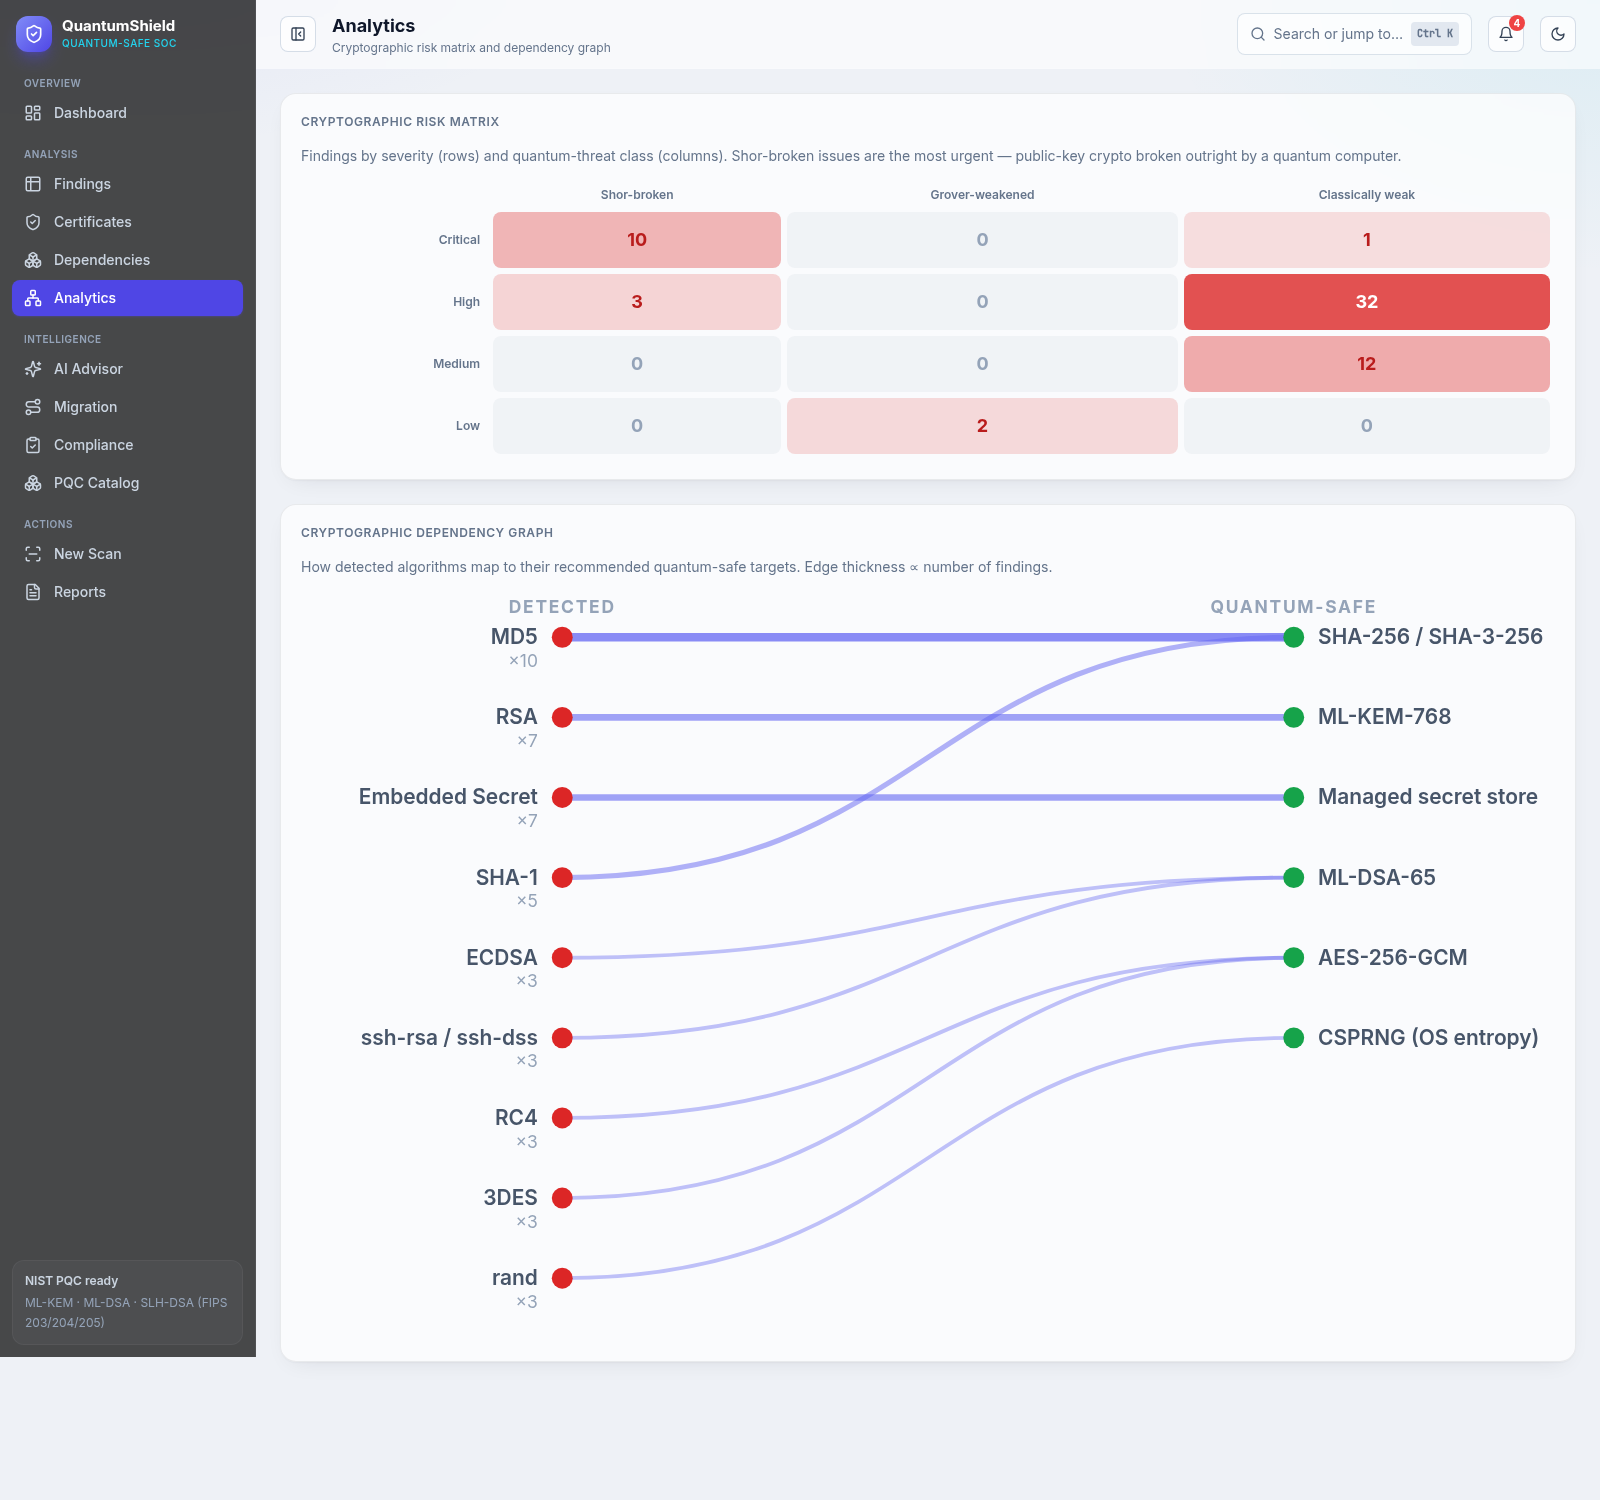
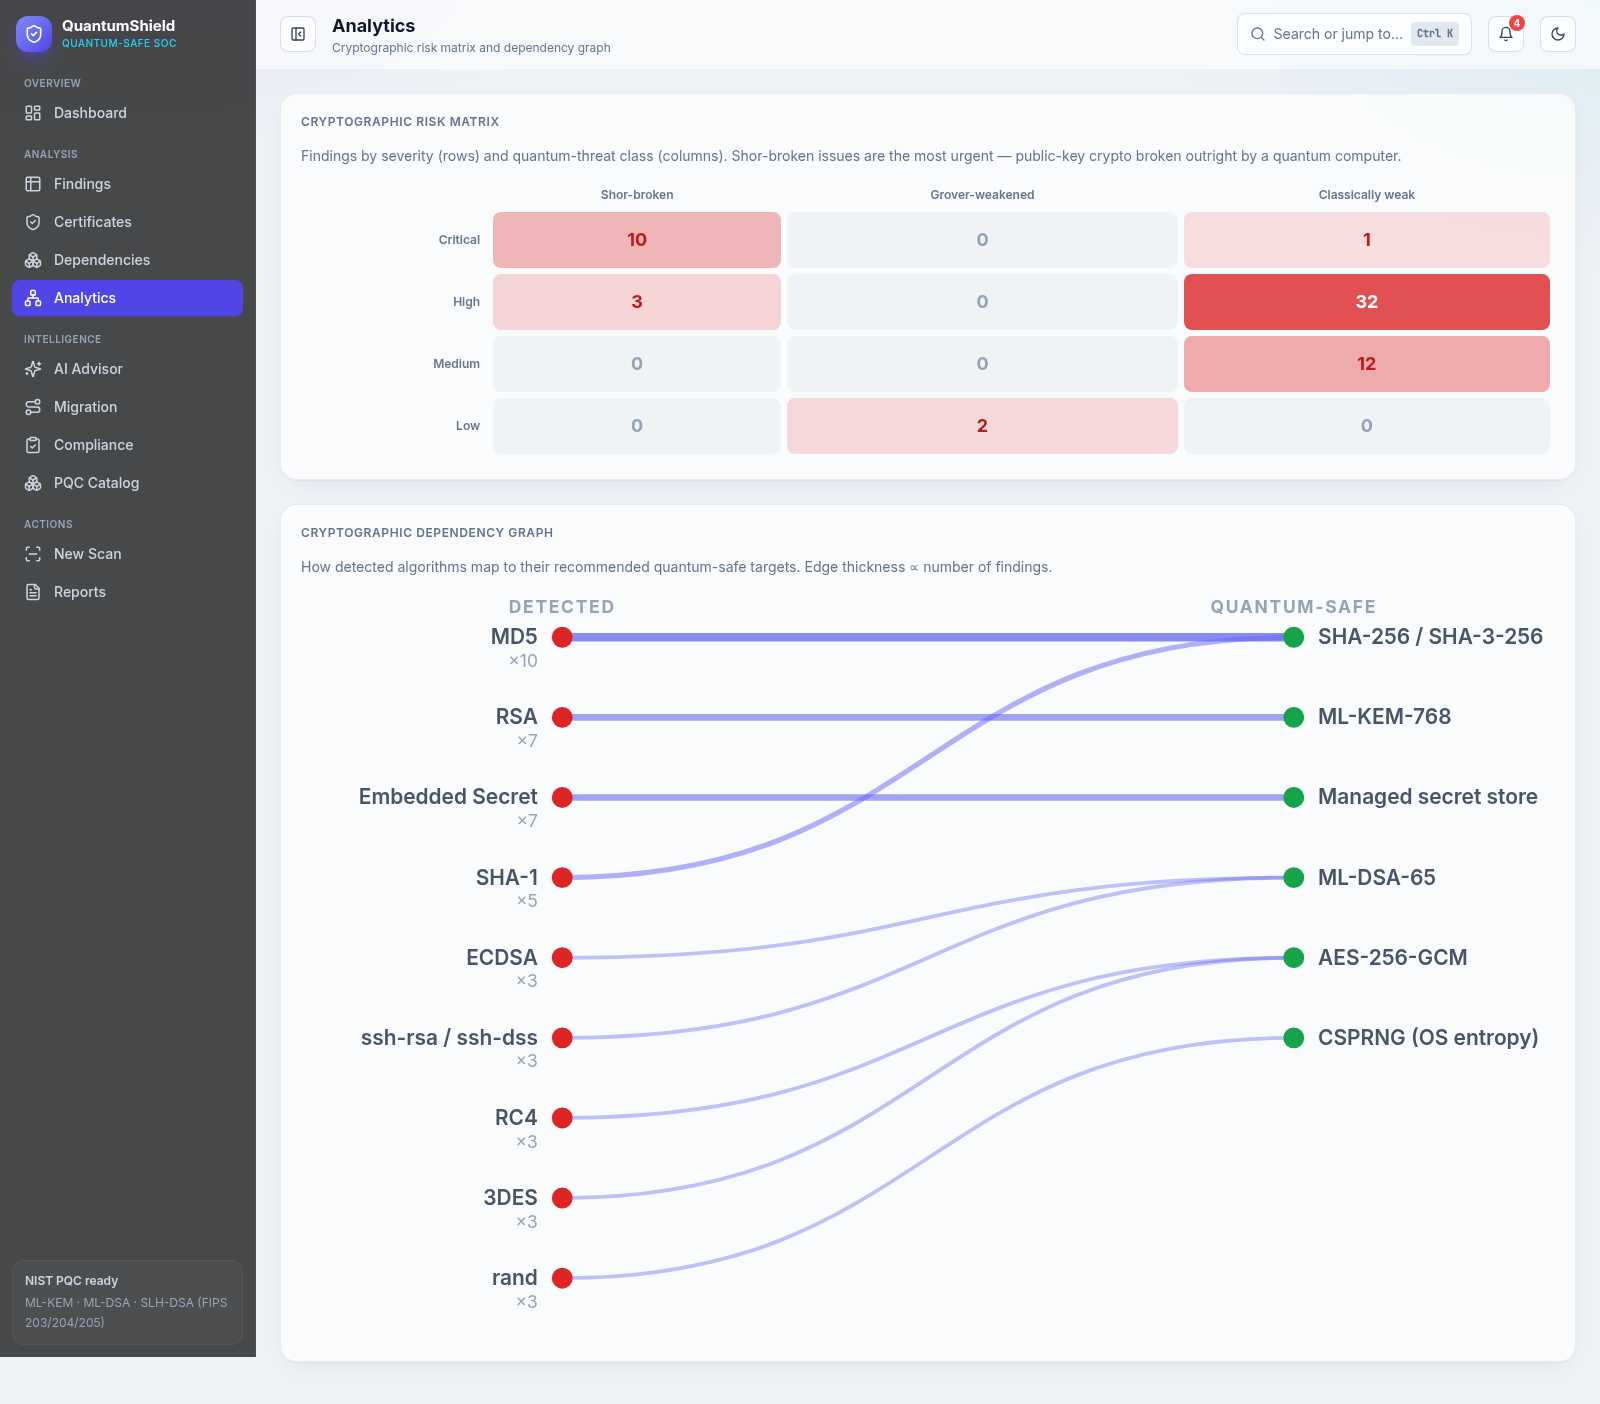
docs: fix README rendering on GitHub
Two problems visible only once the markdown is rendered the way GitHub
renders it:

- The eight badges each sat on their own line. GFM turns a single
  newline into a line break, so GitHub stacked them vertically as eight
  rows instead of one. Join them onto one line.
- findings.png and analytics.png carried 257px and 96px of empty page
  below their content, from capturing at a fixed 1500px height. Crop to
  the last non-background row.

Verified by rendering README.md through GitHub's own /markdown API and
screenshotting the result at GitHub's 1012px content width.

diff --git a/README.md b/README.md
@@ -2,14 +2,7 @@
 
 ### Enterprise Platform for Quantum-Safe Cryptography Assessment and Migration
 
-![Python](https://img.shields.io/badge/Python-3.14-3776AB?logo=python&logoColor=white)
-![FastAPI](https://img.shields.io/badge/FastAPI-0.141-009688?logo=fastapi&logoColor=white)
-![React](https://img.shields.io/badge/React-18.3-61DAFB?logo=react&logoColor=black)
-![TypeScript](https://img.shields.io/badge/TypeScript-5.9-3178C6?logo=typescript&logoColor=white)
-![Vite](https://img.shields.io/badge/Vite-8.2-646CFF?logo=vite&logoColor=white)
-![Tests](https://img.shields.io/badge/tests-33%20passing-brightgreen)
-![NIST PQC](https://img.shields.io/badge/NIST-FIPS%20203%2F204%2F205-FF6F00)
-![License](https://img.shields.io/badge/License-MIT-yellow)
+![Python](https://img.shields.io/badge/Python-3.14-3776AB?logo=python&logoColor=white) ![FastAPI](https://img.shields.io/badge/FastAPI-0.141-009688?logo=fastapi&logoColor=white) ![React](https://img.shields.io/badge/React-18.3-61DAFB?logo=react&logoColor=black) ![TypeScript](https://img.shields.io/badge/TypeScript-5.9-3178C6?logo=typescript&logoColor=white) ![Vite](https://img.shields.io/badge/Vite-8.2-646CFF?logo=vite&logoColor=white) ![Tests](https://img.shields.io/badge/tests-33%20passing-brightgreen) ![NIST PQC](https://img.shields.io/badge/NIST-FIPS%20203%2F204%2F205-FF6F00) ![License](https://img.shields.io/badge/License-MIT-yellow)
 
 QuantumShield scans source code for cryptography that will be broken by quantum
 computers, classifies each finding by **how** quantum computing defeats it, scores
